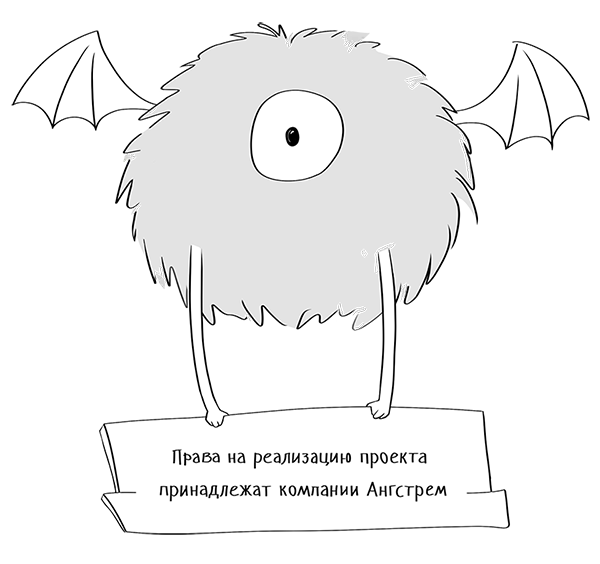
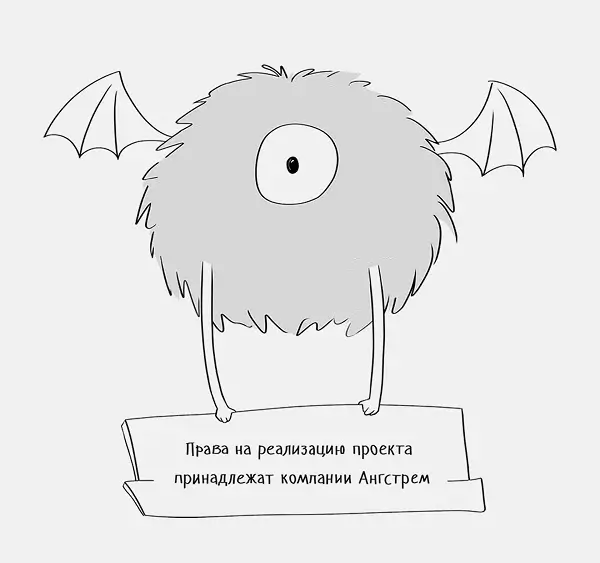
Change pics

diff --git a/src/pages/Anima.vue b/src/pages/Anima.vue
@@ -1250,7 +1250,8 @@
         </v-row>
 
         <v-col cols="12" class="pa-0 text-center pt-12 pb-12">
-          <img class="anima-img11-w" src="../images/AnimaPage/cyclop.webp" alt="Cyclop" />
+          <img v-if="this.$vuetify.display.smAndUp" class="anima-img11-w" src="../images/AnimaPage/cyclop.webp" alt="Cyclop" />
+          <img v-else class="anima-img11-w" src="../images/AnimaPage/cyclop_mobile.webp" alt="Cyclop" />
         </v-col>
       </v-row>
     </v-row>
